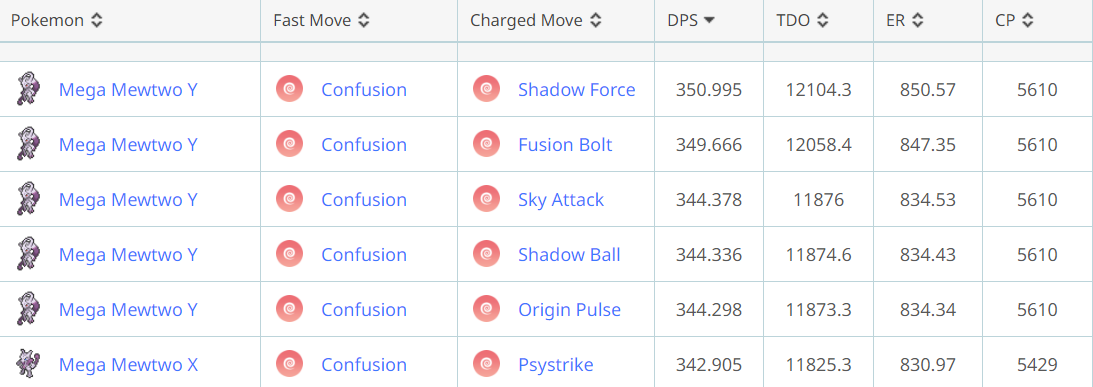
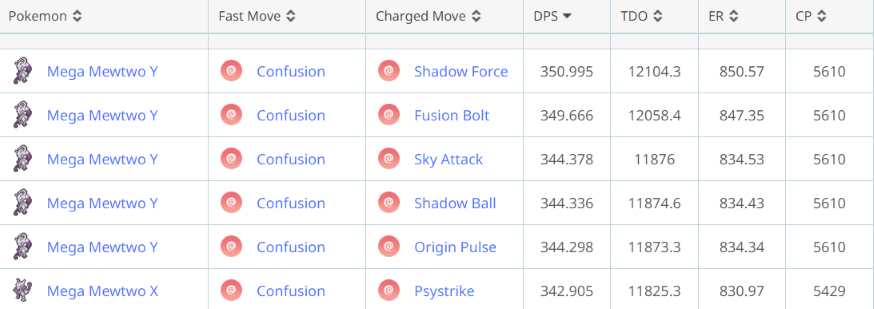
Update #1

diff --git a/_site/Updates/February/index.html b/_site/Updates/February/index.html
@@ -37,7 +37,7 @@
 
 
 
-  <meta property="article:published_time" content="2023-03-04T18:15:58+00:00">
+  <meta property="article:published_time" content="2023-03-04T18:16:46+00:00">
 
 
 
@@ -279,7 +279,7 @@
   <article class="page h-entry" itemscope itemtype="https://schema.org/CreativeWork">
     <meta itemprop="headline" content="Website Update Log - February">
     <meta itemprop="description" content="Date: 25/2/2023#1: New Post on Dirichlet’s Kernel">
-    <meta itemprop="datePublished" content="2023-03-04T18:15:58+00:00">
+    <meta itemprop="datePublished" content="2023-03-04T18:16:46+00:00">
     
 
     <div class="page__inner-wrap">
@@ -350,7 +350,7 @@
 
         
 
-  <p class="page__date"><strong><i class="fas fa-fw fa-calendar-alt" aria-hidden="true"></i> Updated:</strong> <time class="dt-published" datetime="2023-03-04T18:15:58+00:00">March 4, 2023</time></p>
+  <p class="page__date"><strong><i class="fas fa-fw fa-calendar-alt" aria-hidden="true"></i> Updated:</strong> <time class="dt-published" datetime="2023-03-04T18:16:46+00:00">March 4, 2023</time></p>
 
       </footer>
 

diff --git a/_site/Updates/March/index.html b/_site/Updates/March/index.html
@@ -37,7 +37,7 @@
 
 
 
-  <meta property="article:published_time" content="2023-03-04T18:15:58+00:00">
+  <meta property="article:published_time" content="2023-03-04T18:16:46+00:00">
 
 
 
@@ -279,7 +279,7 @@
   <article class="page h-entry" itemscope itemtype="https://schema.org/CreativeWork">
     <meta itemprop="headline" content="Website Update Log - March">
     <meta itemprop="description" content="Date: 1/3/2023#1: New section - Pokemon Go">
-    <meta itemprop="datePublished" content="2023-03-04T18:15:58+00:00">
+    <meta itemprop="datePublished" content="2023-03-04T18:16:46+00:00">
     
 
     <div class="page__inner-wrap">
@@ -328,7 +328,7 @@
 
         
 
-  <p class="page__date"><strong><i class="fas fa-fw fa-calendar-alt" aria-hidden="true"></i> Updated:</strong> <time class="dt-published" datetime="2023-03-04T18:15:58+00:00">March 4, 2023</time></p>
+  <p class="page__date"><strong><i class="fas fa-fw fa-calendar-alt" aria-hidden="true"></i> Updated:</strong> <time class="dt-published" datetime="2023-03-04T18:16:46+00:00">March 4, 2023</time></p>
 
       </footer>
 

diff --git a/_site/Updates/January/index.html b/_site/Updates/January/index.html
@@ -37,7 +37,7 @@
 
 
 
-  <meta property="article:published_time" content="2023-03-04T18:15:58+00:00">
+  <meta property="article:published_time" content="2023-03-04T18:16:46+00:00">
 
 
 
@@ -279,7 +279,7 @@
   <article class="page h-entry" itemscope itemtype="https://schema.org/CreativeWork">
     <meta itemprop="headline" content="Website Update Log - January">
     <meta itemprop="description" content="Date: 24/1/2023#1: Major Error Fix">
-    <meta itemprop="datePublished" content="2023-03-04T18:15:58+00:00">
+    <meta itemprop="datePublished" content="2023-03-04T18:16:46+00:00">
     
 
     <div class="page__inner-wrap">
@@ -359,7 +359,7 @@
 
         
 
-  <p class="page__date"><strong><i class="fas fa-fw fa-calendar-alt" aria-hidden="true"></i> Updated:</strong> <time class="dt-published" datetime="2023-03-04T18:15:58+00:00">March 4, 2023</time></p>
+  <p class="page__date"><strong><i class="fas fa-fw fa-calendar-alt" aria-hidden="true"></i> Updated:</strong> <time class="dt-published" datetime="2023-03-04T18:16:46+00:00">March 4, 2023</time></p>
 
       </footer>
 

diff --git a/_site/Pokemon/Moves/index.html b/_site/Pokemon/Moves/index.html
@@ -289,7 +289,10 @@
 <p>I considered some of the strongest known charged moves in Pokemon Go, such as Frenzy Plant, and changed their typings to Psychic. Then, I make Mega Mewtwo Y, the strongest pokemon of all time, to learn these moves and compare their DPS</p>
 
 <h2 id="results">Results</h2>
-<iframe src="/assets/images/Moves1.png" width="868px" height="496px"></iframe>
+
+<iframe src="/assets/images/Moves1.png" width="874px" height="490px"></iframe>
+
+<iframe src="/assets/images/Moves2.png" width="874px" height="309px"></iframe>
 
 <h3 id="commentary">Commentary</h3>
 <ul>
